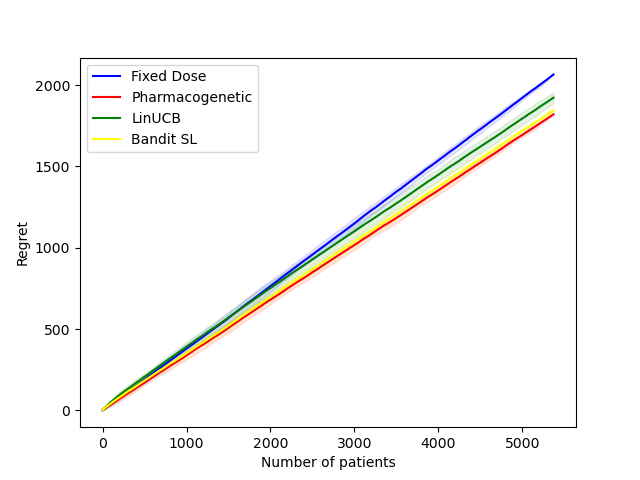
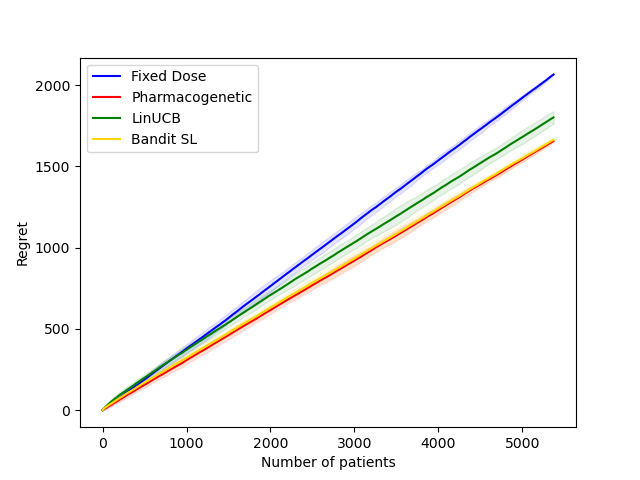
Fix age decade bug

Changed region(s): [[0.1562, 0.1875, 0.875, 0.8438], [0.0625, 0.6562, 0.0938, 0.7188], [0.1562, 0.2812, 0.1875, 0.3125]]

diff --git a/linucb.py b/linucb.py
@@ -15,7 +15,11 @@ def linear_ucb_v2(
     D = np.max(np.linalg.norm(x_train, axis=1))
     B = np.max(y_train)
     n_samples, n_features = x_train.shape
-    A_arms = [reg*np.eye(n_features), reg*np.eye(n_features), reg*np.eye(n_features)]
+    A_arms = [
+        reg * np.eye(n_features),
+        reg * np.eye(n_features),
+        reg * np.eye(n_features),
+    ]
     b_arms = [np.zeros(n_features), np.zeros(n_features), np.zeros(n_features)]
     t_arms = [0, 0, 0]
     for t in range(n_samples):
@@ -35,7 +39,7 @@ def linear_ucb_v2(
             #     [cp.quad_form(theta_a - theta_a_hat, A_arms[a]) <= beta**2],
             # )
             # pred_arms[a] = prob.solve()
-            theta_a = theta_a_hat + beta / np.sqrt(x_t @ (A_inv @ x_t)) * A_inv@x_t
+            theta_a = theta_a_hat + beta / np.sqrt(x_t @ (A_inv @ x_t)) * A_inv @ x_t
             pred_arms[a] = x_t.T @ theta_a
         a_t = np.argmax(pred_arms)
         A_arms[a_t] += np.outer(x_t, x_t)
@@ -66,13 +70,21 @@ def linear_ucb(x_train: np.ndarray, y_train: np.ndarray, alpha: int = 2) -> np.n
     return np.array(chosen_arms)
 
 
-def linear_ucb_stacked(x_train: np.ndarray, y_train: np.ndarray, alpha: int = 2) -> np.ndarray:
+def linear_ucb_stacked(
+    x_train: np.ndarray, y_train: np.ndarray, alpha: int = 2
+) -> np.ndarray:
     N_ARMS = 3
     chosen_arms = []
     n_samples, n_features = x_train.shape
-    arm1_features = np.hstack([x_train, np.zeros((n_samples, n_features)), np.zeros((n_samples, n_features))])
-    arm2_features = np.hstack([np.zeros((n_samples, n_features)), x_train, np.zeros((n_samples, n_features))])
-    arm3_features = np.hstack([np.zeros((n_samples, n_features)), np.zeros((n_samples, n_features)), x_train])
+    arm1_features = np.hstack(
+        [x_train, np.zeros((n_samples, n_features)), np.zeros((n_samples, n_features))]
+    )
+    arm2_features = np.hstack(
+        [np.zeros((n_samples, n_features)), x_train, np.zeros((n_samples, n_features))]
+    )
+    arm3_features = np.hstack(
+        [np.zeros((n_samples, n_features)), np.zeros((n_samples, n_features)), x_train]
+    )
     arms_features = [arm1_features, arm2_features, arm3_features]
     n_features *= 3
     A = np.eye(n_features)
@@ -84,7 +96,7 @@ def linear_ucb_stacked(x_train: np.ndarray, y_train: np.ndarray, alpha: int = 2)
             beta = 10
             A_inv = np.linalg.inv(A)
             theta_a_hat = A_inv @ b
-            theta_a = theta_a_hat + beta / np.sqrt(x_at @ (A_inv @ x_at)) * A_inv@x_at
+            theta_a = theta_a_hat + beta / np.sqrt(x_at @ (A_inv @ x_at)) * A_inv @ x_at
             pred_arms[a] = x_at.T @ theta_a
         a_t = np.argmax(pred_arms)
         A += np.outer(arms_features[a_t][t], arms_features[a_t][t])
@@ -99,14 +111,20 @@ def conservative_linear_ucb(
     N_ARMS = 3
     chosen_arms = []
     n_samples, n_features = x_train.shape
-    arm1_features = np.hstack([x_train, np.zeros((n_samples, n_features)), np.zeros((n_samples, n_features))])
-    arm2_features = np.hstack([np.zeros((n_samples, n_features)), x_train, np.zeros((n_samples, n_features))])
-    arm3_features = np.hstack([np.zeros((n_samples, n_features)), np.zeros((n_samples, n_features)), x_train])
+    arm1_features = np.hstack(
+        [x_train, np.zeros((n_samples, n_features)), np.zeros((n_samples, n_features))]
+    )
+    arm2_features = np.hstack(
+        [np.zeros((n_samples, n_features)), x_train, np.zeros((n_samples, n_features))]
+    )
+    arm3_features = np.hstack(
+        [np.zeros((n_samples, n_features)), np.zeros((n_samples, n_features)), x_train]
+    )
     arms_features = [arm1_features, arm2_features, arm3_features]
     n_features *= 3
     A = np.eye(n_features)
     b = np.zeros(n_features)
-    z = np.zeros(n_features) # cumulative features of non-optimal actions
+    z = np.zeros(n_features)  # cumulative features of non-optimal actions
     r_b_taken = 0
     r_b_total = 0
 
@@ -121,7 +139,7 @@ def conservative_linear_ucb(
         for a in range(N_ARMS):
             x_at = arms_features[a][t]
             beta = 10
-            theta_a = theta_hat + beta / np.sqrt(x_at @ (A_inv @ x_at)) * A_inv@x_at
+            theta_a = theta_hat + beta / np.sqrt(x_at @ (A_inv @ x_at)) * A_inv @ x_at
             pred_arms[a] = x_at.T @ theta_a
         a_t = np.argmax(pred_arms)
 
@@ -131,8 +149,8 @@ def conservative_linear_ucb(
         if z.sum() < 1e-6:
             lower_bound = r_b_taken
         else:
-            theta = theta_hat - beta / np.sqrt(z @ (A_inv @ z)) * A_inv@z
-            lower_bound = theta@z_t + r_b_taken
+            theta = theta_hat - beta / np.sqrt(z @ (A_inv @ z)) * A_inv @ z
+            lower_bound = theta @ z_t + r_b_taken
         # Check if it's safe to take a_t
         if lower_bound + r_b_taken >= (1 - alpha) * r_b_total:
             A += np.outer(arms_features[a_t][t], arms_features[a_t][t])
@@ -142,11 +160,11 @@ def conservative_linear_ucb(
             explore_action_count += 1
         else:
             r_b_taken += y_train[t][1]
-            chosen_arms.append(1) # baseline action
+            chosen_arms.append(1)  # baseline action
             baseline_action_count += 1
 
-    print('baseline count = ', baseline_action_count)
-    print('explore count = ', explore_action_count)
+    print("baseline count = ", baseline_action_count)
+    print("explore count = ", explore_action_count)
     return chosen_arms
 
 

diff --git a/thompson_sampling.py b/thompson_sampling.py
@@ -1,0 +1,56 @@
+import dataclasses
+from typing import Literal, Tuple
+
+import numpy as np
+import pandas as pd
+
+
+class BetaParams:
+    def __init__(self):
+        self.alpha = 1
+        self.beta = 1
+
+    def update(self, reward: Literal[0, -1]) -> None:
+        # 0 and -1 correspond to 1 and 0 in the original reward scheme, respectively.
+        self.alpha += reward + 1
+        self.beta += -reward
+
+
+class ContextFreeMAB:
+    def __init__(self, priors: list[BetaParams]) -> None:
+        self.priors = priors
+        self.rng = np.random.default_rng(seed=42)
+
+    def play_arm(self, target: np.ndarray[Literal[0, -1]]) -> int:
+        chosen_arm = np.argmax(self.rng.beta(a=p.alpha, b=p.beta) for p in self.priors)
+        actual_reward = target[chosen_arm]
+        self.priors[chosen_arm].update(actual_reward)
+        return chosen_arm
+
+
+def _compute_features_and_targets(
+    df: pd.DataFrame,
+) -> Tuple[np.ndarray[float], np.ndarray[np.ndarray[int]]]:
+    n_samples, n_arms = len(df), 3
+
+    # Discretize all continuous features.
+    # Divide height and weights into 3 buckets each.
+    df.assign(_is_height_between_120_and_150=lambda x: 120 <= x["Height (cm)"] < 150)
+    df.assign(_is_height_between_180_and_210=lambda x: 150 <= x["Height (cm)"] < 180)
+    df.assign(_is_height_between_180_and_210=lambda x: 180 <= x["Height (cm)"] < 210)
+    df.assign(_is_weight_between_30_and_100=lambda x: 30 <= x["Weight (kg)"] < 100)
+    df.assign(_is_weight_between_100_and_170=lambda x: 100 <= x["Weight (kg)"] < 170)
+    df.assign(_is_weight_between_170_and_240=lambda x: 170 <= x["Weight (kg)"] < 240)
+
+    features_df = df.drop("Therapeutic Dose of Warfarin", axis=1)
+    features_np = np.hstack([features_df.to_numpy(), np.ones((n_samples, 1))])
+
+    dosage_np = df["Therapeutic Dose of Warfarin"].to_numpy()
+    targets_np = np.zeros((n_samples, n_arms))
+    targets_np[dosage_np < 21, 1] = -1.0
+    targets_np[dosage_np < 21, 2] = -1.0
+    targets_np[np.all([dosage_np >= 21, dosage_np <= 49], axis=0), 0] = -1.0
+    targets_np[np.all([dosage_np >= 21, dosage_np <= 49], axis=0), 2] = -1.0
+    targets_np[dosage_np > 49, 0] = -1.0
+    targets_np[dosage_np > 49, 1] = -1.0
+    return features_np, targets_np

diff --git a/preprocessing.py b/preprocessing.py
@@ -118,7 +118,7 @@ def compute_feature_columns(old_df: pd.DataFrame) -> pd.DataFrame:
     df["Age"].fillna("40 - 49", inplace=True)
     # Convert age to decade.
     df["_age_decade"] = 0.0
-    df = df.assign(_age_decade=lambda x: int(x["Age"][0][0]))
+    df = df.assign(_age_decade=lambda x: x["Age"].str[0].astype(int))
     df = df.drop(
         columns=[
             "Age",
@@ -148,7 +148,9 @@ if __name__ == "__main__":
     print(patients_df[RS9923231_COL].count())
 
 
-def compute_features_and_targets(df: pd.DataFrame) -> Tuple[np.ndarray, np.ndarray]:
+def compute_features_and_targets(
+    df: pd.DataFrame,
+) -> Tuple[np.ndarray[float], np.ndarray[np.ndarray[int]]]:
     # df = df.sample(frac=1).reset_index(drop=True)  # Shuffle the dataset ordering
 
     n_samples, n_arms = len(df), 3

diff --git a/cvx_example.py b/cvx_example.py
@@ -12,10 +12,15 @@ V = np.dot(V, V.T)
 # Construct the problem.
 theta = cp.Variable(n_features)
 theta_hat = np.random.rand(n_features)
-prob = cp.Problem(cp.Minimize(theta.T @ x_t), [cp.quad_form(theta - theta_hat, V) <= 0.25])
+prob = cp.Problem(
+    cp.Minimize(theta.T @ x_t), [cp.quad_form(theta - theta_hat, V) <= 0.25]
+)
 
 # The optimal objective value is returned by `prob.solve()`.
 print(prob.solve())
 
-theta2 = theta_hat - np.sqrt(0.25)/np.sqrt(x_t @ (np.linalg.inv(V) @ x_t)) * np.linalg.inv(V) @ x_t
+theta2 = (
+    theta_hat
+    - np.sqrt(0.25) / np.sqrt(x_t @ (np.linalg.inv(V) @ x_t)) * np.linalg.inv(V) @ x_t
+)
 print(x_t.T @ theta2)

diff --git a/main.py b/main.py
@@ -133,7 +133,7 @@ if __name__ == "__main__":
             Metric(
                 metric_values=bandit_sl_regret_trials,
                 label_name="Bandit SL",
-                color="yellow",
+                color="gold",
             ),
         ],
         n_patients=np.array(fixed_dose_regret_trials).shape[1],
@@ -163,7 +163,7 @@ if __name__ == "__main__":
             Metric(
                 metric_values=bandit_sl_incorrect_frac_trials,
                 label_name="Bandit SL",
-                color="yellow",
+                color="gold",
             ),
         ],
         n_patients=np.array(fixed_dose_incorrect_frac_trials).shape[1],

diff --git a/supervised_learning.py b/supervised_learning.py
@@ -35,7 +35,7 @@ def _initialize_linear_model(
     X: np.ndarray, y: np.ndarray
 ) -> linear_model.LinearRegression:
     # Randomly initialize the linear model. The model cannot be used to predict
-    # without fitting on something first.
+    # without being fitted on something first.
     random_x = np.random.rand(*X.shape)
     random_y = np.random.rand(*y.shape)
     model = linear_model.LinearRegression().fit(random_x, random_y)
